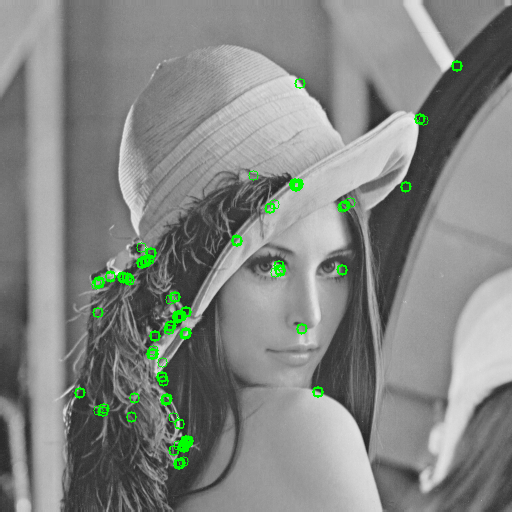
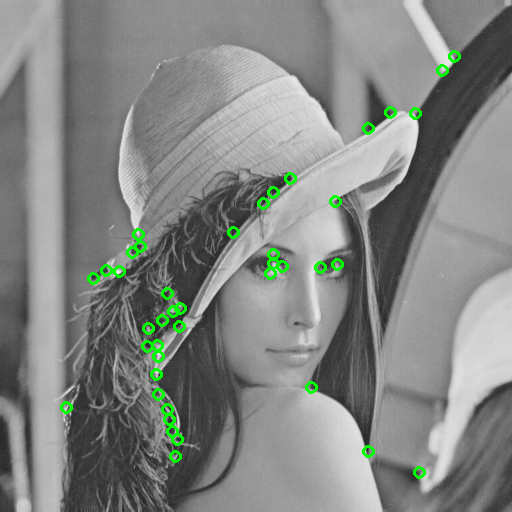
update

diff --git a/A1/A1_corner_detection.py b/A1/A1_corner_detection.py
@@ -15,18 +15,9 @@ def compute_second_moment(grad_x: np.ndarray, grad_y: np.ndarray):
     window = np.ones((5, 5), dtype=grad_x.dtype)
     n = 5*5
 
-    sum_x = cross_correlation_2d(grad_x, window)
-    sum_y = cross_correlation_2d(grad_y, window)
     xx = cross_correlation_2d(Ixx, kernel=window, zero_pad=True)
     xy = cross_correlation_2d(Ixy, kernel=window, zero_pad=True)
     yy = cross_correlation_2d(Iyy, kernel=window, zero_pad=True)
-
-    x_mean = sum_x / n
-    y_mean = sum_y / n
-
-    xx = xx - n * (x_mean * x_mean)
-    xy = xy - n * (x_mean * y_mean)
-    yy = yy - n * (y_mean * y_mean)
 
     return xx, xy, yy
 
@@ -58,7 +49,6 @@ def compute_corner_response(img: np.ndarray):
 
     r_min, r_max = response.min(), response.max()
     response = (response - r_min) / ((r_max - r_min) + 1e-6) # avoid division by zero
-
     return response
 
 
@@ -72,21 +62,17 @@ def non_maximum_suppresion_win(R: np.ndarray, winSize: int = 11):
     out = np.zeros_like(R, dtype=R.dtype)
     for i in range(h):
         for j in range(w):
-
-            center = padded_R[i, j]
+            center = padded_R[i + h_pad_size, j + w_pad_size]
             if not(center > 0.1):
                 continue
 
             patch = padded_R[i:i + winSize, j:j + winSize]
-            maximum = patch.max()
 
+            maximum = patch.max()
             if maximum > center:
                 continue
-
             out[i, j] = 1
-
     return out 
-
 
 
 if __name__=="__main__":
@@ -97,18 +83,21 @@ if __name__=="__main__":
     lenna = np.asarray(lenna).astype(np.float32)
     shapes = np.asarray(shapes).astype(np.float32)
 
+    # 3-1
     filter = get_gaussian_filter_2d(7, 1.5)
     filtered_lenna = cross_correlation_2d(lenna, filter)
     filtered_shapes = cross_correlation_2d(shapes, filter)
 
     # ====== Lenna ======
+    # 3-2-e
     start = time.time()
     lenna_response = compute_corner_response(filtered_lenna)
     print(f"Lenna - Computational Time of Computing Corner Response: {time.time() - start:.5f} sec")
     cv2.imwrite('./result/part_3_corner_raw_lenna.png', np.clip(lenna_response * 255, 0, 255).astype(np.uint8))
     cv2.imshow("Response of lenna.png", np.clip(lenna_response * 255, 0, 255).astype(np.uint8))
-    cv2.waitKey(1000)
+    cv2.waitKey(1)
 
+    # 3-3-b
     lenna_bgr = cv2.cvtColor(lenna.astype(np.uint8), cv2.COLOR_GRAY2BGR)
     threshold_mask = lenna_response > 0.1
     lenna_corner = lenna_bgr.copy()
@@ -116,28 +105,31 @@ if __name__=="__main__":
 
     cv2.imwrite('./result/part_3_corner_bin_lenna.png', lenna_corner)
     cv2.imshow("Response Dot of lenna.png", lenna_corner)
-    cv2.waitKey(1000)
+    cv2.waitKey(1)
 
+    # 3-3-d
     start = time.time()
     lenna_corner_detection = non_maximum_suppresion_win(lenna_response)
     print(f"Lenna - Computational Time of NMS Window: {time.time() - start:.5f} sec")
     ys, xs = np.where(lenna_corner_detection != 0)
     for y, x in zip(ys, xs):
-        cv2.circle(lenna_bgr, (x, y), radius=5, color=(0, 255, 0))
+        cv2.circle(lenna_bgr, (x, y), 5, (0, 255, 0), 2)
 
     cv2.imwrite('./result/part_3_corner_sup_lenna.png', lenna_bgr)
     cv2.imshow("Response Dot of lenna.png", lenna_bgr)
-    cv2.waitKey(1000)
+    cv2.waitKey(1)
+
     
     # ====== Shapes ======
-
+    # 3-2-e
     start = time.time()
     shapes_response = compute_corner_response(filtered_shapes)
     print(f"Shapes - Computational Time of Computing Corner Response: {time.time() - start:.5f} sec")
     cv2.imwrite('./result/part_3_corner_raw_shapes.png', np.clip(shapes_response * 255, 0, 255).astype(np.uint8))
     cv2.imshow("Response of shapes.png", np.clip(shapes_response * 255, 0, 255).astype(np.uint8))
-    cv2.waitKey(0)
+    cv2.waitKey(1)
 
+    # 3-3-b
     shapes_bgr = cv2.cvtColor(shapes.astype(np.uint8), cv2.COLOR_GRAY2BGR)
     threshold_mask = shapes_response > 0.1
     shapes_corner = shapes_bgr.copy()
@@ -145,16 +137,17 @@ if __name__=="__main__":
 
     cv2.imwrite('./result/part_3_corner_bin_shapes.png', shapes_corner)
     cv2.imshow("Response Dot of shapes.png", shapes_corner)
-    cv2.waitKey(1000)
+    cv2.waitKey(1)
 
+    # 3-3-d
     start = time.time()
     shapes_corner_detection = non_maximum_suppresion_win(shapes_response)
-    print(f"Lenna - Computational Time of NMS Window: {time.time() - start:.5f} sec")
+    print(f"Shapes - Computational Time of NMS Window: {time.time() - start:.5f} sec")
     ys, xs = np.where(shapes_corner_detection != 0)
     for y, x in zip(ys, xs):
-        cv2.circle(shapes_bgr, (x, y), radius=5, color=(0, 255, 0))
+        cv2.circle(shapes_bgr, (x, y), 5, (0, 255, 0), 2)
 
     cv2.imwrite('./result/part_3_corner_sup_shapes.png', shapes_bgr)
     cv2.imshow("Response Dot of shapes.png", shapes_bgr)
-    cv2.waitKey(1000)
+    cv2.waitKey(0)
 
